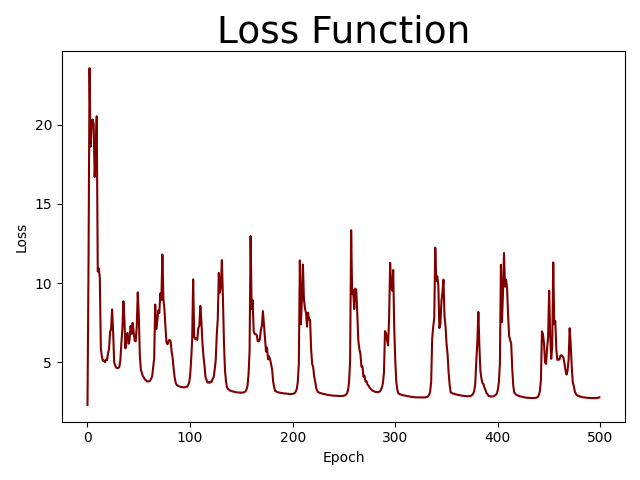
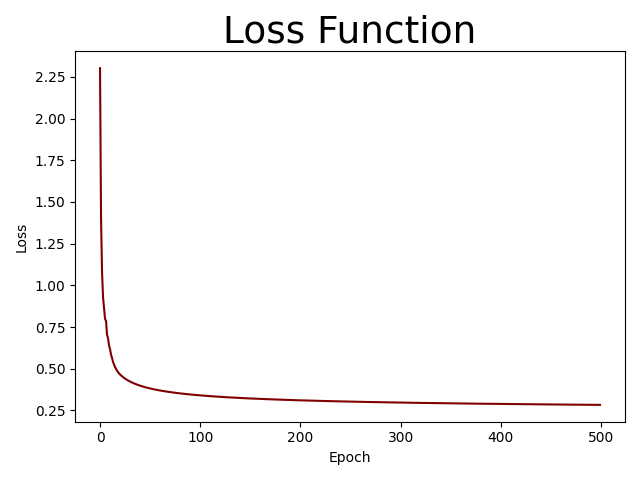
Fix overflown with logsumexp()

diff --git a/models/softmax_regression.py b/models/softmax_regression.py
@@ -10,44 +10,47 @@ class SoftmaxRegression:
         self.losses = []
         self.w = None
 
-    def loss_fn(self, y: np.ndarray, y_hat: np.ndarray) -> float:
-        return -(y * np.log(y_hat + 1e-15)).sum(axis=1).mean()
+    def loss_fn(self, y: np.ndarray, log_y_hat: np.ndarray) -> float:
+        return -(y * log_y_hat).sum(axis=1).mean()
 
     def fit(self, X: np.ndarray, y: np.ndarray):
         N, d = X.shape
         C = y.shape[1]
         self.w = np.zeros((d, C), dtype=np.float64)
-        e = 0
+        
         with tqdm(range(self.epoch)) as pbar:
             for _ in pbar:
-                y_hat = self.predict_proba(X)
+                log_y_hat = self.predict_log_proba(X)
+                y_hat = np.exp(log_y_hat)
                 delta_y = (y_hat - y)
                 
                 gradient = X.T @ delta_y / N
                 self.w -= gradient * self.lr
 
-                l = self.loss_fn(y, y_hat)
+                l = self.loss_fn(y, log_y_hat)
                 self.losses.append(l)
 
                 pbar.set_postfix({
                     "loss": l
                 })
 
-                e += 1
-
         return self.losses
 
-    def softmax(self, X: np.ndarray):
-        X = X - np.max(X, axis=-1, keepdims=True)
-        exp = np.exp(X)
-        return exp / exp.sum(axis=-1, keepdims=True)
+    def logsumexp(self, X: np.ndarray):
+        a = X.max(-1)
+        return a + np.log(np.exp(X - a[:, None]).sum(-1))
+    
+    def log_softmax(self, X: np.ndarray):
+        return X - self.logsumexp(X)[:, None]
+
+    def predict_log_proba(self, X: np.ndarray):
+        return self.log_softmax(X @ self.w)
 
     def predict_proba(self, X: np.ndarray):
-        y_hat = X @ self.w
-        return self.softmax(y_hat)
+        return np.exp(self.predict_log_proba(X))
     
     def predict(self, X):
-        return np.argmax(self.predict_proba(X), axis=1)
+        return np.argmax(self.predict_log_proba(X), axis=1)
     
     def evaluate(self, y, y_hat) -> dict:
         y_true = np.argmax(y, axis=1)
